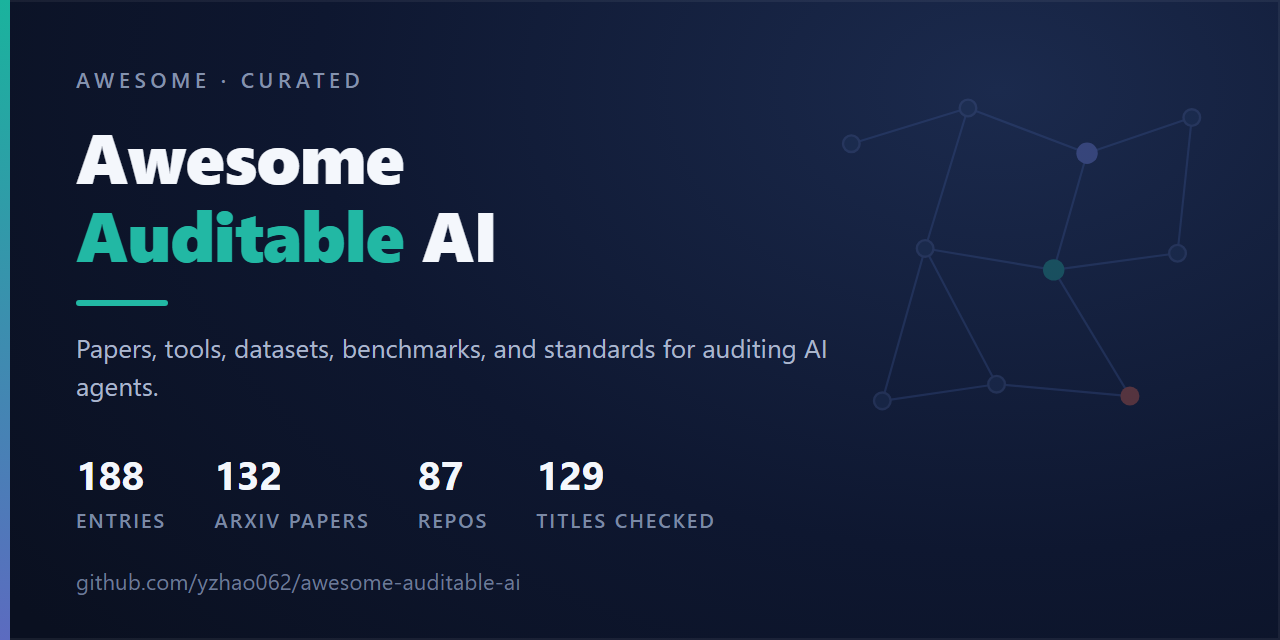
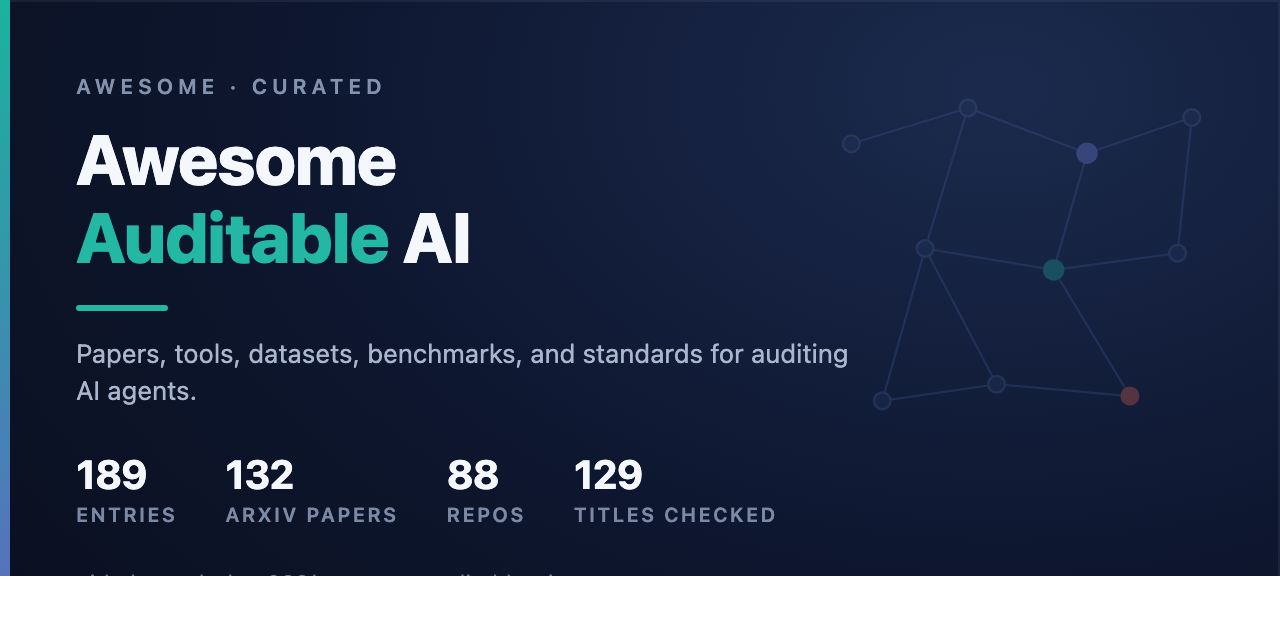
Tools: add Awesome Agentic Engineering
Readiness gate scoring agent specifications against risk-tiered profiles, with prompt-injection fixtures run through LangGraph and OpenAI Agents adapters.

Submitted by @lindixu6-hash in #14. Language tag corrected from TypeScript to JavaScript and the summary tightened to verifiable claims; audit report re-run to include the new entry's own URL.

List is now 189 entries, 88 repositories, 263 audited destinations.

diff --git a/assets/social-card.html b/assets/social-card.html
@@ -71,9 +71,9 @@
     <div class="tag">Papers, tools, datasets, benchmarks, and standards for auditing AI agents.</div>
 
     <div class="stats">
-      <div class="stat"><div class="n">188</div><div class="l">Entries</div></div>
+      <div class="stat"><div class="n">189</div><div class="l">Entries</div></div>
       <div class="stat"><div class="n">132</div><div class="l">arXiv papers</div></div>
-      <div class="stat"><div class="n">87</div><div class="l">Repos</div></div>
+      <div class="stat"><div class="n">88</div><div class="l">Repos</div></div>
       <div class="stat"><div class="n">129</div><div class="l">Titles checked</div></div>
     </div>
   </div>

diff --git a/LINK-AUDIT.md b/LINK-AUDIT.md
@@ -8,8 +8,8 @@ Generated by `tools/check_links.py`. Re-run it to reproduce this file.
 |---|---|
 | Audit date | 2026-08-17 |
 | Failure policy | `strict` |
-| Distinct link destinations | 262 |
-| Resolved (200 or 206) | 260 |
+| Distinct link destinations | 263 |
+| Resolved (200 or 206) | 261 |
 | Did not resolve | 2 |
 | Unresolved and not a known bot wall | 0 |
 | PR-blocking unresolved (non-retryable 4xx or non-network error) | 0 |
@@ -92,7 +92,7 @@ github.com destination is audited, including this owner's other repositories.
 
 | Status | Count |
 |---|---:|
-| 200 | 260 |
+| 200 | 261 |
 | 202 | 1 |
 | 403 | 1 |
 
@@ -304,61 +304,62 @@ github.com destination is audited, including this owner's other repositories.
 | 202 | 200 | n/a | n/a | https://github.com/in-toto/attestation |
 | 203 | 200 | n/a | n/a | https://github.com/kfq20/AEGIS |
 | 204 | 200 | n/a | n/a | https://github.com/langfuse/langfuse |
-| 205 | 200 | n/a | n/a | https://github.com/lmnr-ai/lmnr |
-| 206 | 200 | n/a | n/a | https://github.com/m4p1e/agent-sentinel |
-| 207 | 200 | n/a | n/a | https://github.com/makerchecker/MakerChecker |
-| 208 | 200 | n/a | n/a | https://github.com/meta-llama/PurpleLlama |
-| 209 | 200 | n/a | n/a | https://github.com/microsoft/AgentRx |
-| 210 | 200 | n/a | n/a | https://github.com/microsoft/agent-governance-toolkit |
-| 211 | 200 | n/a | n/a | https://github.com/mingyin1/Agents_Failure_Attribution |
-| 212 | 200 | n/a | n/a | https://github.com/mitre-atlas/atlas-data/releases/tag/v2026.07 |
-| 213 | 200 | n/a | n/a | https://github.com/modelcontextprotocol/modelcontextprotocol |
-| 214 | 200 | n/a | n/a | https://github.com/multi-agent-systems-failure-taxonomy/MAST |
-| 215 | 200 | n/a | n/a | https://github.com/nyit-vancouver/mcp-security |
-| 216 | 200 | n/a | n/a | https://github.com/open-telemetry/semantic-conventions-genai |
-| 217 | 200 | n/a | n/a | https://github.com/rgreenblatt/control-evaluations |
-| 218 | 200 | n/a | n/a | https://github.com/secure-systems-lab/dsse |
-| 219 | 200 | n/a | n/a | https://github.com/sierra-research/tau-bench |
-| 220 | 200 | n/a | n/a | https://github.com/sigstore/rekor |
-| 221 | 200 | n/a | n/a | https://github.com/snyk/agent-scan |
-| 222 | 200 | n/a | n/a | https://github.com/splx-ai/agentic-radar |
-| 223 | 200 | n/a | n/a | https://github.com/superradcompany/microsandbox |
-| 224 | 200 | n/a | n/a | https://github.com/taichengguo/LLM_MultiAgents_Survey_Papers |
-| 225 | 200 | n/a | n/a | https://github.com/traceloop/openllmetry |
-| 226 | 200 | n/a | n/a | https://github.com/truera/trulens |
-| 227 | 200 | n/a | n/a | https://github.com/uiuc-kang-lab/InjecAgent |
-| 228 | 200 | n/a | n/a | https://github.com/ulab-uiuc/AgentDebug |
-| 229 | 200 | n/a | n/a | https://github.com/ulab-uiuc/AgentProtocols |
-| 230 | 200 | n/a | n/a | https://github.com/vibrantlabsai/ragas |
-| 231 | 200 | n/a | n/a | https://github.com/victorojewale/audit-trail-PoC |
-| 232 | 200 | n/a | n/a | https://github.com/web-arena-x/webarena |
-| 233 | 200 | n/a | n/a | https://github.com/whowhenpro/whowhen_pro |
-| 234 | 200 | n/a | n/a | https://github.com/wslong20/G-safeguard |
-| 235 | 200 | n/a | n/a | https://github.com/xiaoqi-7/Agent-Tracing-Survey |
-| 236 | 200 | n/a | n/a | https://github.com/xlang-ai/OSWorld |
-| 237 | 200 | n/a | n/a | https://github.com/yoheinakajima/activegraph |
-| 238 | 200 | n/a | n/a | https://github.com/yzhao062 |
-| 239 | 200 | n/a | n/a | https://github.com/yzhao062/auditable |
-| 240 | 200 | n/a | n/a | https://github.com/yzhao062/grade |
-| 241 | 200 | n/a | n/a | https://github.com/yzhao062/pyod |
-| 242 | 200 | n/a | n/a | https://huggingface.co/datasets/E-k-O/PaladinData |
-| 243 | 200 | n/a | n/a | https://huggingface.co/datasets/Fancylalala/AEGIS |
-| 244 | 200 | n/a | n/a | https://huggingface.co/datasets/PatronusAI/TRAIL |
-| 245 | 200 | n/a | n/a | https://huggingface.co/datasets/gaia-benchmark/GAIA |
-| 246 | 200 | n/a | n/a | https://huggingface.co/meta-llama/LlamaGuard-7b |
-| 247 | 200 | n/a | n/a | https://img.shields.io/badge/PRs-welcome-blue.svg |
-| 248 | 200 | n/a | n/a | https://img.shields.io/badge/license-CC0--1.0-blue.svg |
-| 249 | 200 | n/a | n/a | https://img.shields.io/github/last-commit/yzhao062/awesome-auditable-ai |
-| 250 | 200 | n/a | n/a | https://in-toto.io/ |
-| 251 | 200 | n/a | n/a | https://modelcontextprotocol.io/specification/latest |
-| 252 | 200 | n/a | n/a | https://nvlpubs.nist.gov/nistpubs/ai/NIST.AI.600-1.pdf |
-| 253 | 200 | n/a | n/a | https://nvlpubs.nist.gov/nistpubs/ai/nist.ai.100-1.pdf |
-| 254 | 200 | n/a | n/a | https://proceedings.mlr.press/v267/south25a.html |
-| 255 | 200 | n/a | n/a | https://scholar.google.com/citations?user=zoGDYsoAAAAJ&hl=en |
-| 256 | 200 | n/a | n/a | https://slsa.dev/spec/v1.0/ |
-| 257 | 200 | n/a | n/a | https://spec.c2pa.org/specifications/specifications/2.2/specs/_attachments/C2PA_Specification.pdf |
-| 258 | 200 | n/a | n/a | https://whowhenpro.github.io/ |
-| 259 | 403 | n/a | n/a | https://www.iso.org/standard/42001 |
-| 260 | 200 | n/a | n/a | https://www.langchain.com/langsmith-platform |
-| 261 | 200 | n/a | n/a | https://www.rfc-editor.org/rfc/rfc6962 |
-| 262 | 200 | n/a | n/a | https://www.rfc-editor.org/rfc/rfc9162 |
+| 205 | 200 | n/a | n/a | https://github.com/lindixu6-hash/awesome-agentic-engineering |
+| 206 | 200 | n/a | n/a | https://github.com/lmnr-ai/lmnr |
+| 207 | 200 | n/a | n/a | https://github.com/m4p1e/agent-sentinel |
+| 208 | 200 | n/a | n/a | https://github.com/makerchecker/MakerChecker |
+| 209 | 200 | n/a | n/a | https://github.com/meta-llama/PurpleLlama |
+| 210 | 200 | n/a | n/a | https://github.com/microsoft/AgentRx |
+| 211 | 200 | n/a | n/a | https://github.com/microsoft/agent-governance-toolkit |
+| 212 | 200 | n/a | n/a | https://github.com/mingyin1/Agents_Failure_Attribution |
+| 213 | 200 | n/a | n/a | https://github.com/mitre-atlas/atlas-data/releases/tag/v2026.07 |
+| 214 | 200 | n/a | n/a | https://github.com/modelcontextprotocol/modelcontextprotocol |
+| 215 | 200 | n/a | n/a | https://github.com/multi-agent-systems-failure-taxonomy/MAST |
+| 216 | 200 | n/a | n/a | https://github.com/nyit-vancouver/mcp-security |
+| 217 | 200 | n/a | n/a | https://github.com/open-telemetry/semantic-conventions-genai |
+| 218 | 200 | n/a | n/a | https://github.com/rgreenblatt/control-evaluations |
+| 219 | 200 | n/a | n/a | https://github.com/secure-systems-lab/dsse |
+| 220 | 200 | n/a | n/a | https://github.com/sierra-research/tau-bench |
+| 221 | 200 | n/a | n/a | https://github.com/sigstore/rekor |
+| 222 | 200 | n/a | n/a | https://github.com/snyk/agent-scan |
+| 223 | 200 | n/a | n/a | https://github.com/splx-ai/agentic-radar |
+| 224 | 200 | n/a | n/a | https://github.com/superradcompany/microsandbox |
+| 225 | 200 | n/a | n/a | https://github.com/taichengguo/LLM_MultiAgents_Survey_Papers |
+| 226 | 200 | n/a | n/a | https://github.com/traceloop/openllmetry |
+| 227 | 200 | n/a | n/a | https://github.com/truera/trulens |
+| 228 | 200 | n/a | n/a | https://github.com/uiuc-kang-lab/InjecAgent |
+| 229 | 200 | n/a | n/a | https://github.com/ulab-uiuc/AgentDebug |
+| 230 | 200 | n/a | n/a | https://github.com/ulab-uiuc/AgentProtocols |
+| 231 | 200 | n/a | n/a | https://github.com/vibrantlabsai/ragas |
+| 232 | 200 | n/a | n/a | https://github.com/victorojewale/audit-trail-PoC |
+| 233 | 200 | n/a | n/a | https://github.com/web-arena-x/webarena |
+| 234 | 200 | n/a | n/a | https://github.com/whowhenpro/whowhen_pro |
+| 235 | 200 | n/a | n/a | https://github.com/wslong20/G-safeguard |
+| 236 | 200 | n/a | n/a | https://github.com/xiaoqi-7/Agent-Tracing-Survey |
+| 237 | 200 | n/a | n/a | https://github.com/xlang-ai/OSWorld |
+| 238 | 200 | n/a | n/a | https://github.com/yoheinakajima/activegraph |
+| 239 | 200 | n/a | n/a | https://github.com/yzhao062 |
+| 240 | 200 | n/a | n/a | https://github.com/yzhao062/auditable |
+| 241 | 200 | n/a | n/a | https://github.com/yzhao062/grade |
+| 242 | 200 | n/a | n/a | https://github.com/yzhao062/pyod |
+| 243 | 200 | n/a | n/a | https://huggingface.co/datasets/E-k-O/PaladinData |
+| 244 | 200 | n/a | n/a | https://huggingface.co/datasets/Fancylalala/AEGIS |
+| 245 | 200 | n/a | n/a | https://huggingface.co/datasets/PatronusAI/TRAIL |
+| 246 | 200 | n/a | n/a | https://huggingface.co/datasets/gaia-benchmark/GAIA |
+| 247 | 200 | n/a | n/a | https://huggingface.co/meta-llama/LlamaGuard-7b |
+| 248 | 200 | n/a | n/a | https://img.shields.io/badge/PRs-welcome-blue.svg |
+| 249 | 200 | n/a | n/a | https://img.shields.io/badge/license-CC0--1.0-blue.svg |
+| 250 | 200 | n/a | n/a | https://img.shields.io/github/last-commit/yzhao062/awesome-auditable-ai |
+| 251 | 200 | n/a | n/a | https://in-toto.io/ |
+| 252 | 200 | n/a | n/a | https://modelcontextprotocol.io/specification/latest |
+| 253 | 200 | n/a | n/a | https://nvlpubs.nist.gov/nistpubs/ai/NIST.AI.600-1.pdf |
+| 254 | 200 | n/a | n/a | https://nvlpubs.nist.gov/nistpubs/ai/nist.ai.100-1.pdf |
+| 255 | 200 | n/a | n/a | https://proceedings.mlr.press/v267/south25a.html |
+| 256 | 200 | n/a | n/a | https://scholar.google.com/citations?user=zoGDYsoAAAAJ&hl=en |
+| 257 | 200 | n/a | n/a | https://slsa.dev/spec/v1.0/ |
+| 258 | 200 | n/a | n/a | https://spec.c2pa.org/specifications/specifications/2.2/specs/_attachments/C2PA_Specification.pdf |
+| 259 | 200 | n/a | n/a | https://whowhenpro.github.io/ |
+| 260 | 403 | n/a | n/a | https://www.iso.org/standard/42001 |
+| 261 | 200 | n/a | n/a | https://www.langchain.com/langsmith-platform |
+| 262 | 200 | n/a | n/a | https://www.rfc-editor.org/rfc/rfc6962 |
+| 263 | 200 | n/a | n/a | https://www.rfc-editor.org/rfc/rfc9162 |

diff --git a/README.md b/README.md
@@ -22,9 +22,9 @@
 
 **Agent capability is rising much faster than agent reliability.** *Towards a Science of AI Agent Reliability* (ICML 2026) decomposes reliability into twelve metrics over fifteen models and finds that recent capability gains produced only small reliability gains. The cost of that gap shows up after a run rather than during it: in the original Who&When study (ICML 2025), the strongest of the three attribution methods released with the benchmark identified the responsible agent in 53.5% of 184 annotated failure tasks, drawn from logs of 127 LLM multi-agent systems, and the decisive error step in 14.2%. Later systems in this list, including AgenTracer (ICLR 2026), report gains on that benchmark. What narrows the gap is the quality of the record. TraceElephant (ACL 2026) reports that full execution traces raised step-level attribution accuracy from 17% to 30% in its static-agentic setting, a 76% relative gain over output-only traces.
 
-This list maps the work on that problem: **188 entries across nine sections**, covering 132 unique arXiv papers, 87 GitHub repositories, 16 standards, and one framework. Five papers are deliberately cross-listed, appearing once in a topical section and once as a dataset.
+This list maps the work on that problem: **189 entries across nine sections**, covering 132 unique arXiv papers, 88 GitHub repositories, 16 standards, and one framework. Five papers are deliberately cross-listed, appearing once in a topical section and once as a dataset.
 
-Two properties make the list checkable. Every paper row carries a venue field, so of the 134 table rows, 69 name a publication venue and 65 are marked Preprint; a reader can see the evidence level of a row without opening it. Naming a venue is not the same as peer review, and the field records what the venue is rather than grading it: a non-archival workshop and a main-conference track both appear as what they are. And the citation check goes past asking whether a link responds: each arXiv entry's title is compared with the title the arXiv page itself reports, and only an exact match counts. A near-identical title is not treated as agreement, because that is precisely what a link to the wrong paper in a series looks like; "Part I" against "Part II" scores 0.995 on similarity. The 2026-08-17 run compared 129 entry titles and 132 identifiers across 262 destinations and found no disagreements. It names every destination that refuses automated clients rather than quietly counting it as passing. That run is also what caught a dataset repository going 404 three days after it last resolved. The four destinations it does not audit are this repository's own badges and the pages behind them, and the report names those too.
+Two properties make the list checkable. Every paper row carries a venue field, so of the 134 table rows, 69 name a publication venue and 65 are marked Preprint; a reader can see the evidence level of a row without opening it. Naming a venue is not the same as peer review, and the field records what the venue is rather than grading it: a non-archival workshop and a main-conference track both appear as what they are. And the citation check goes past asking whether a link responds: each arXiv entry's title is compared with the title the arXiv page itself reports, and only an exact match counts. A near-identical title is not treated as agreement, because that is precisely what a link to the wrong paper in a series looks like; "Part I" against "Part II" scores 0.995 on similarity. The 2026-08-17 run compared 129 entry titles and 132 identifiers across 263 destinations and found no disagreements. It names every destination that refuses automated clients rather than quietly counting it as passing. That run is also what caught a dataset repository going 404 three days after it last resolved. The four destinations it does not audit are this repository's own badges and the pages behind them, and the report names those too.
 
 Regenerate the report with [`tools/check_links.py`](tools/check_links.py), recount the list with [`tools/inventory.py`](tools/inventory.py), and read the result in [`LINK-AUDIT.md`](LINK-AUDIT.md). The ways this audit could report a false pass are kept as tests in [`tools/test_check_links.py`](tools/test_check_links.py), which runs on every pull request along with the audit itself.
 
@@ -460,6 +460,8 @@ Tools and platforms for agent observability, evaluation, and reliability. An ins
 **\[Python\] AgentRunProof** ([FU-max-boop/agentrunproof](https://github.com/FU-max-boop/agentrunproof)): deterministic runtime-conformance harness for the OpenAI Agents SDK that drives the real `Runner` through scripted responses on the public `Model` interface, and writes content-addressed evidence that can be rechecked without rerunning the SDK; built-in scenarios make no model API calls. MIT-licensed, 2026-present.
 
 **\[Python\] A2E** ([datamllab/A2E](https://github.com/datamllab/A2E)): end-to-end agent auditing engine that uses the Agent Task Protocol to integrate tasks with different harnesses, automatically captures standardized execution traces, and assesses execution efficiency, tool use, task planning, and error recovery with multidimensional metrics. MIT-licensed, 2026-present. [\[Paper\]](https://arxiv.org/abs/2608.07346) (Preprint 2026)
+
+**\[JavaScript\] Awesome Agentic Engineering** ([lindixu6-hash/awesome-agentic-engineering](https://github.com/lindixu6-hash/awesome-agentic-engineering)): GitHub Action and CLI that scores an agent specification against risk-tiered profiles, fails a release on unresolved blockers, and runs eight prompt-injection fixtures through LangGraph and OpenAI Agents adapters that retain node-linked traces and machine-readable results. MIT-licensed, 2026-present.
 
 ---
 
